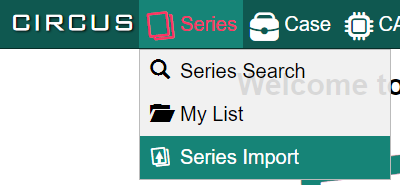
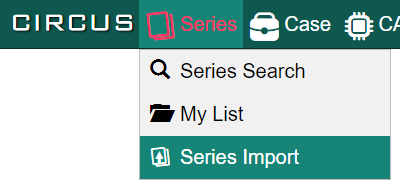
Add series search page (Users Guide)

Changed region(s): [[0.57, 0.3784, 1.0, 0.5135], [0.96, 0.8378, 1.0, 0.9459], [0.75, 0.973, 0.84, 1.0]]

diff --git a/docs/users/series-search.md b/docs/users/series-search.md
@@ -6,7 +6,7 @@ title: Series Search
 
 画面上部のメニューより[Series] - [Series Search]を選択するとSeries Search画面が表示されます。
 
-![Series search from menu](series-search-from-menu.png "Series search from menu")
+![Series search from menu](series-search-01.png)
 
 :::tip
 
@@ -14,7 +14,52 @@ title: Series Search
 
 :::
 
-### DICOM seriesの検索
+## 検索条件の設定
+
+Series Search画面の上部の"Search Condition"にて検索条件を設定します。検索条件の設定方法として、BasicおよびAdvancedの2種類があります。 それぞれはタブによって切り替えることが出来ます。
+
+:::note
+
+検索条件設定画面が表示されていない場合は"Search Condition"上部の &#9660; をクリックします。
+
+:::
+
+### Basic
+
+Basicでは基本的な検索条件により検索ができます。
+
+![Search condition (Basic mode)](series-search-02.png)
 
 
-### 検索結果の表示
+### Advanced
+
+Advancedでは検索条件をより詳細に設定することができます。Basicにはなかった検索項目(import date)による検索も行うことができます。
+
+![Search condition (Advanced)](series-search-03.png)
+
+### 検索条件の保存(preset)
+
+よく使用する検索条件をpresetとして保存することができます。検索条件設定画面下部の[Save]ボタンをクリックすると、preset nameを設定するダイアログが表示されますので、名前を設定して[OK]ボタンをクリックします。
+
+![Set preset name](series-search-04.png)
+
+保存したpresetはメニューの[Seres]より呼び出すことができます。
+
+![Call preset from menu](series-search-05.png)
+
+
+## 検索結果のリスト表示
+
+検索結果は画面下部に表示されます。
+
+![Set preset name](series-search-06.png)
+
+- リスト各行の"Uid"列にある虫眼鏡アイコンをクリックすると、そのseriesのStudy Instance UIDならびにSeries Instance UIDが表示されます。それぞれのUIDをクリップボードにコピーすることもできます。 
+
+- リスト各行の[View]ボタンをクリックすると、Series Detail画面が表示されます。Series Detail画面では画像とSeriesの詳細情報が表示されます。
+
+  ![Set detail](series-detail.png)
+
+- リスト各行の[New]はプルダウンメニューとなっています。
+  - "New Case"を選択すると、そのシリーズを含むCase(CIRCUS DB)新規登録画面が表示されます。
+  - "New Job"を選択すると、そのシリーズを含むPlug-in job(CIRCUS CS)新規登録画面が表示されます。

diff --git a/docs/users/plugin-job-search.md b/docs/users/plugin-job-search.md
@@ -6,7 +6,7 @@ title: Plug-in Job Search
 
 画面上部のメニューより[CAD] - [Plug-in Job Search]を選択するとPlug-in Job Search画面が表示されます。
 
-![Plug-in Job Search from menu](plugin-job-search-from-menu.png "Plug-in Job Search from menu")
+![Plug-in Job Search from menu](plugin-job-search-01.png "Plug-in Job Search from menu")
 
 :::tip
 

diff --git a/docs/users/case-search.md b/docs/users/case-search.md
@@ -6,7 +6,7 @@ title: Case search
 
 画面上部のメニューより[Case] - [Case Search]を選択するとCase Search画面が表示されます。
 
-![Case search from menu](case-search-from-menu.png "Case search from menu")
+![Case search from menu](case-search-01.png "Case search from menu")
 
 :::tip
 
